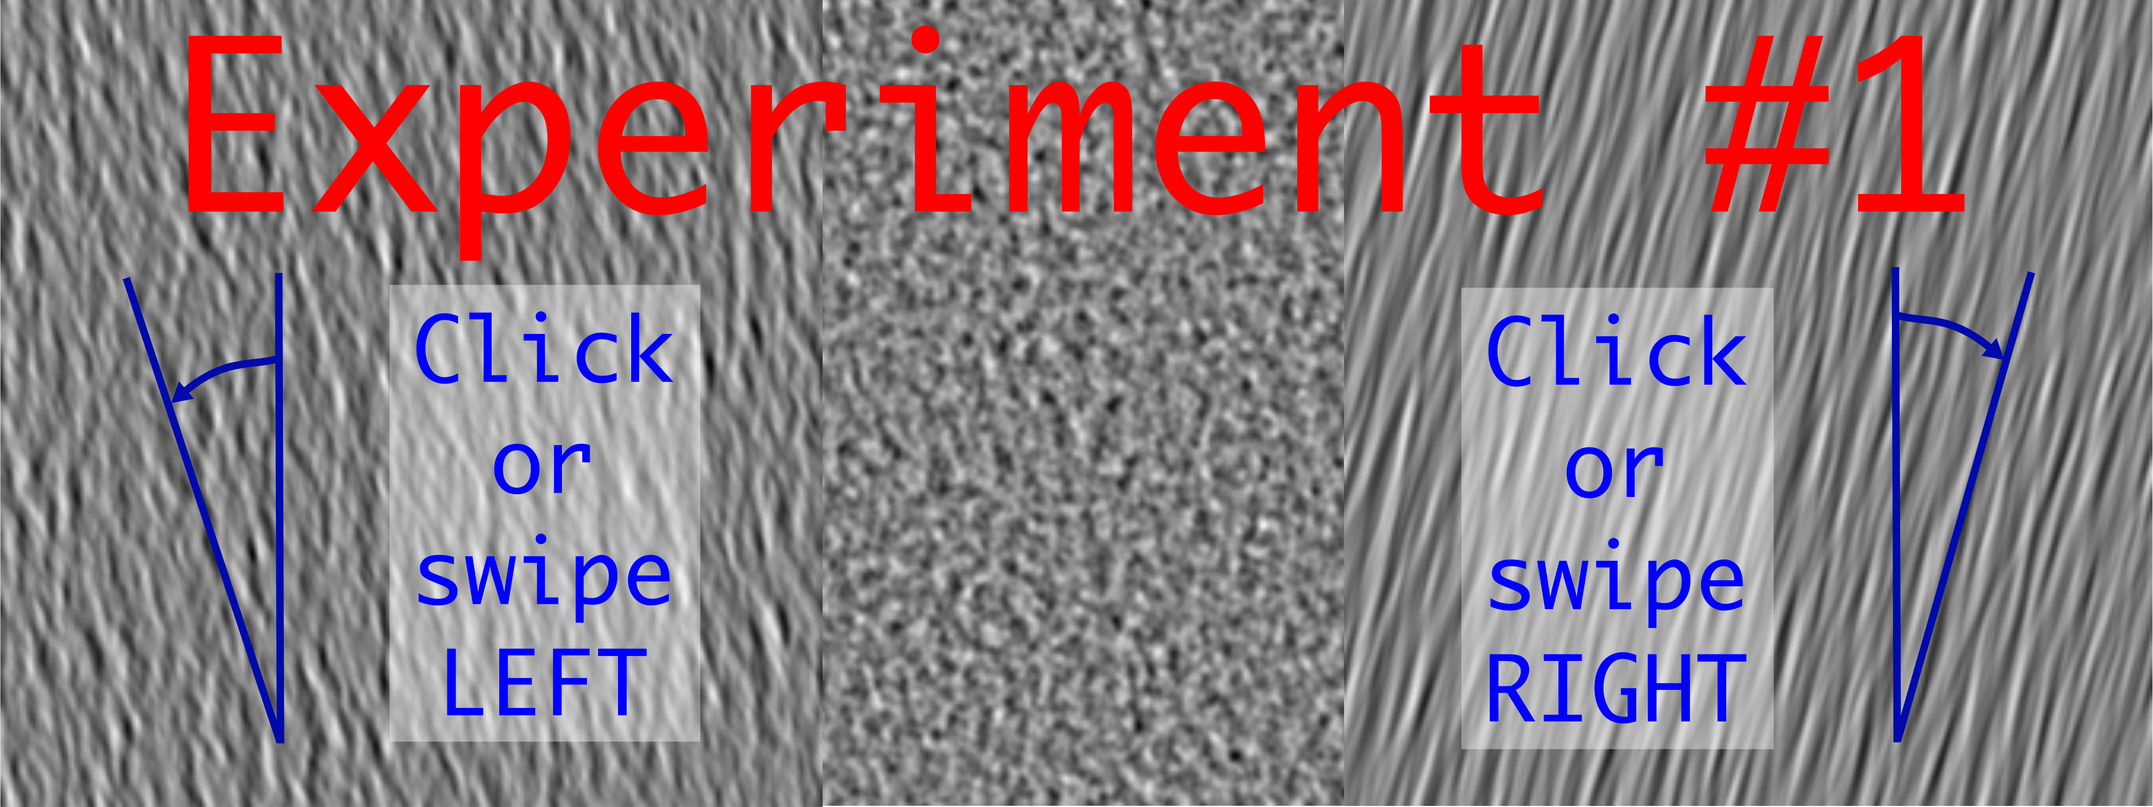
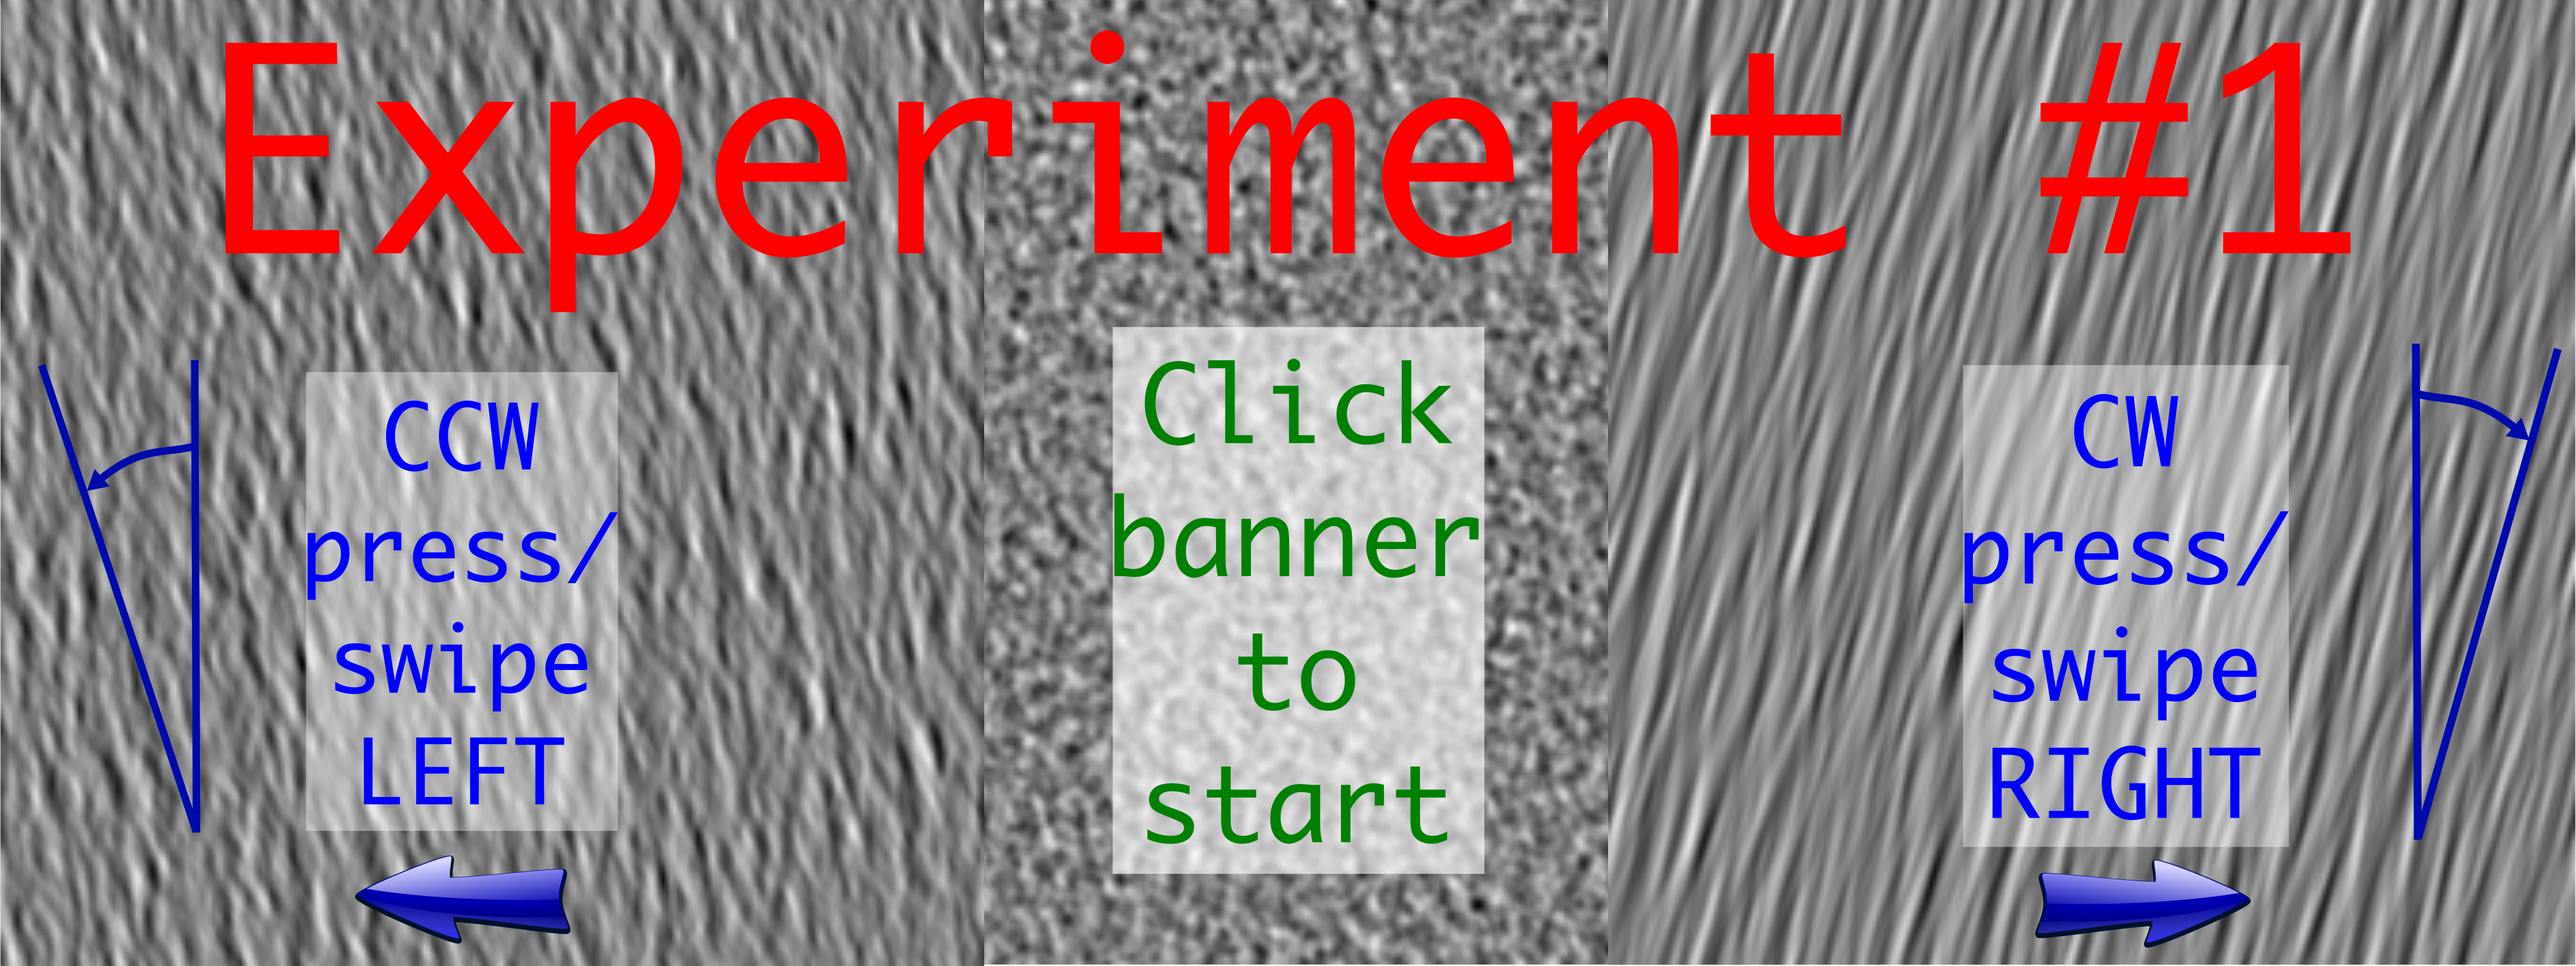
experiment1

diff --git a/index.html b/index.html
@@ -12,11 +12,9 @@
 
     This experiment consists in a series of trials where you will have to judge the average orientation of a textured image. 
 
-    <video width="80%" controls> <source src="Intro.mp4" type="video/mp4"> Your browser does not support the video tag. </video>
-    <ul>
-      <li><a href="https://laurentperrinet.github.io/OEiL_OrientationPrecision/2024-09-27_pilot.html">Pilot experiment</a></li>
-      <li><a href="https://laurentperrinet.github.io/OEiL_OrientationPrecision/2024-09-27_pilot.html?id=laurent">LP</a></li>
-    </ul>
+    <video width="80%" controls autoplay> <source src="Intro.mp4" type="video/mp4"> Your browser does not support the video tag. </video>
+
+    <a href="https://laurentperrinet.github.io/OEiL_OrientationPrecision/2024-09-27_pilot.html"><img width="80%" src="experiment1.png"></a>
     
 </body>
 </html>
